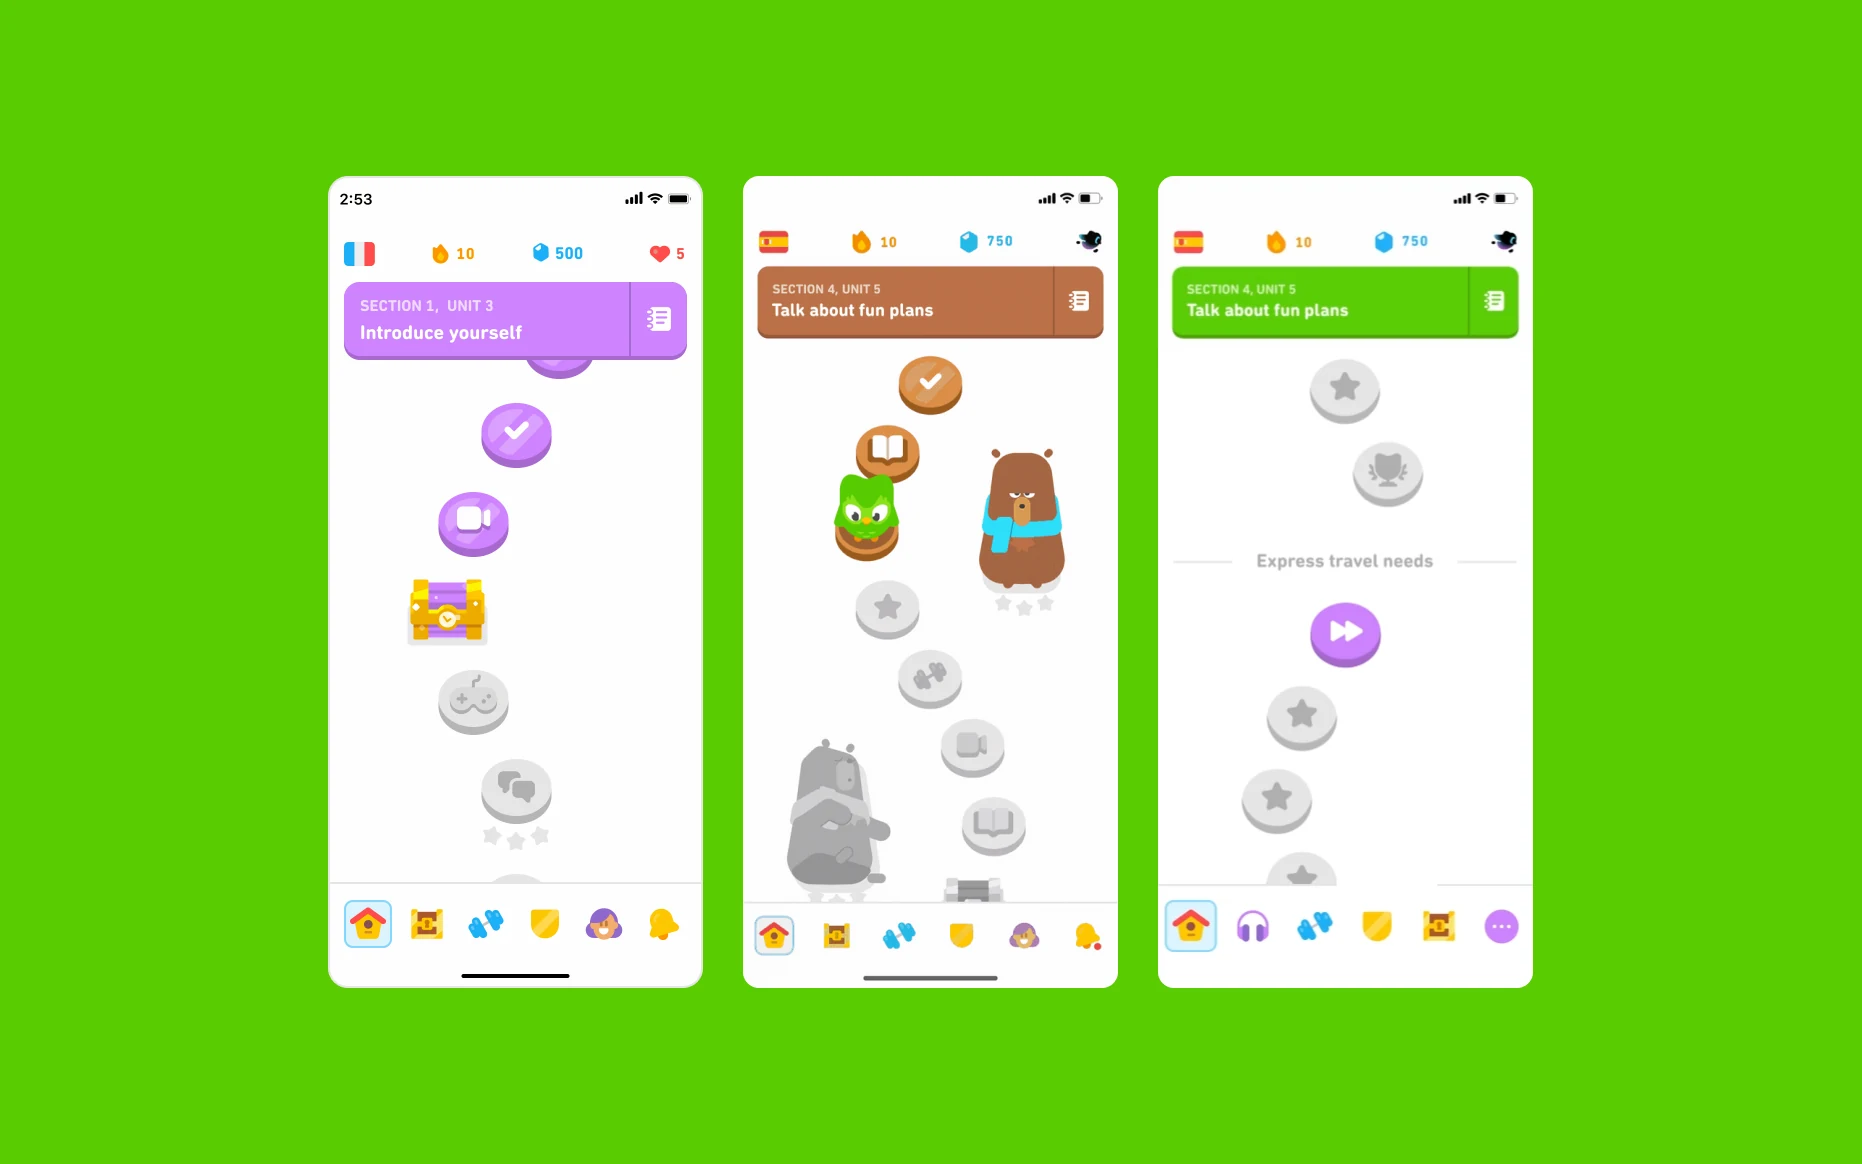
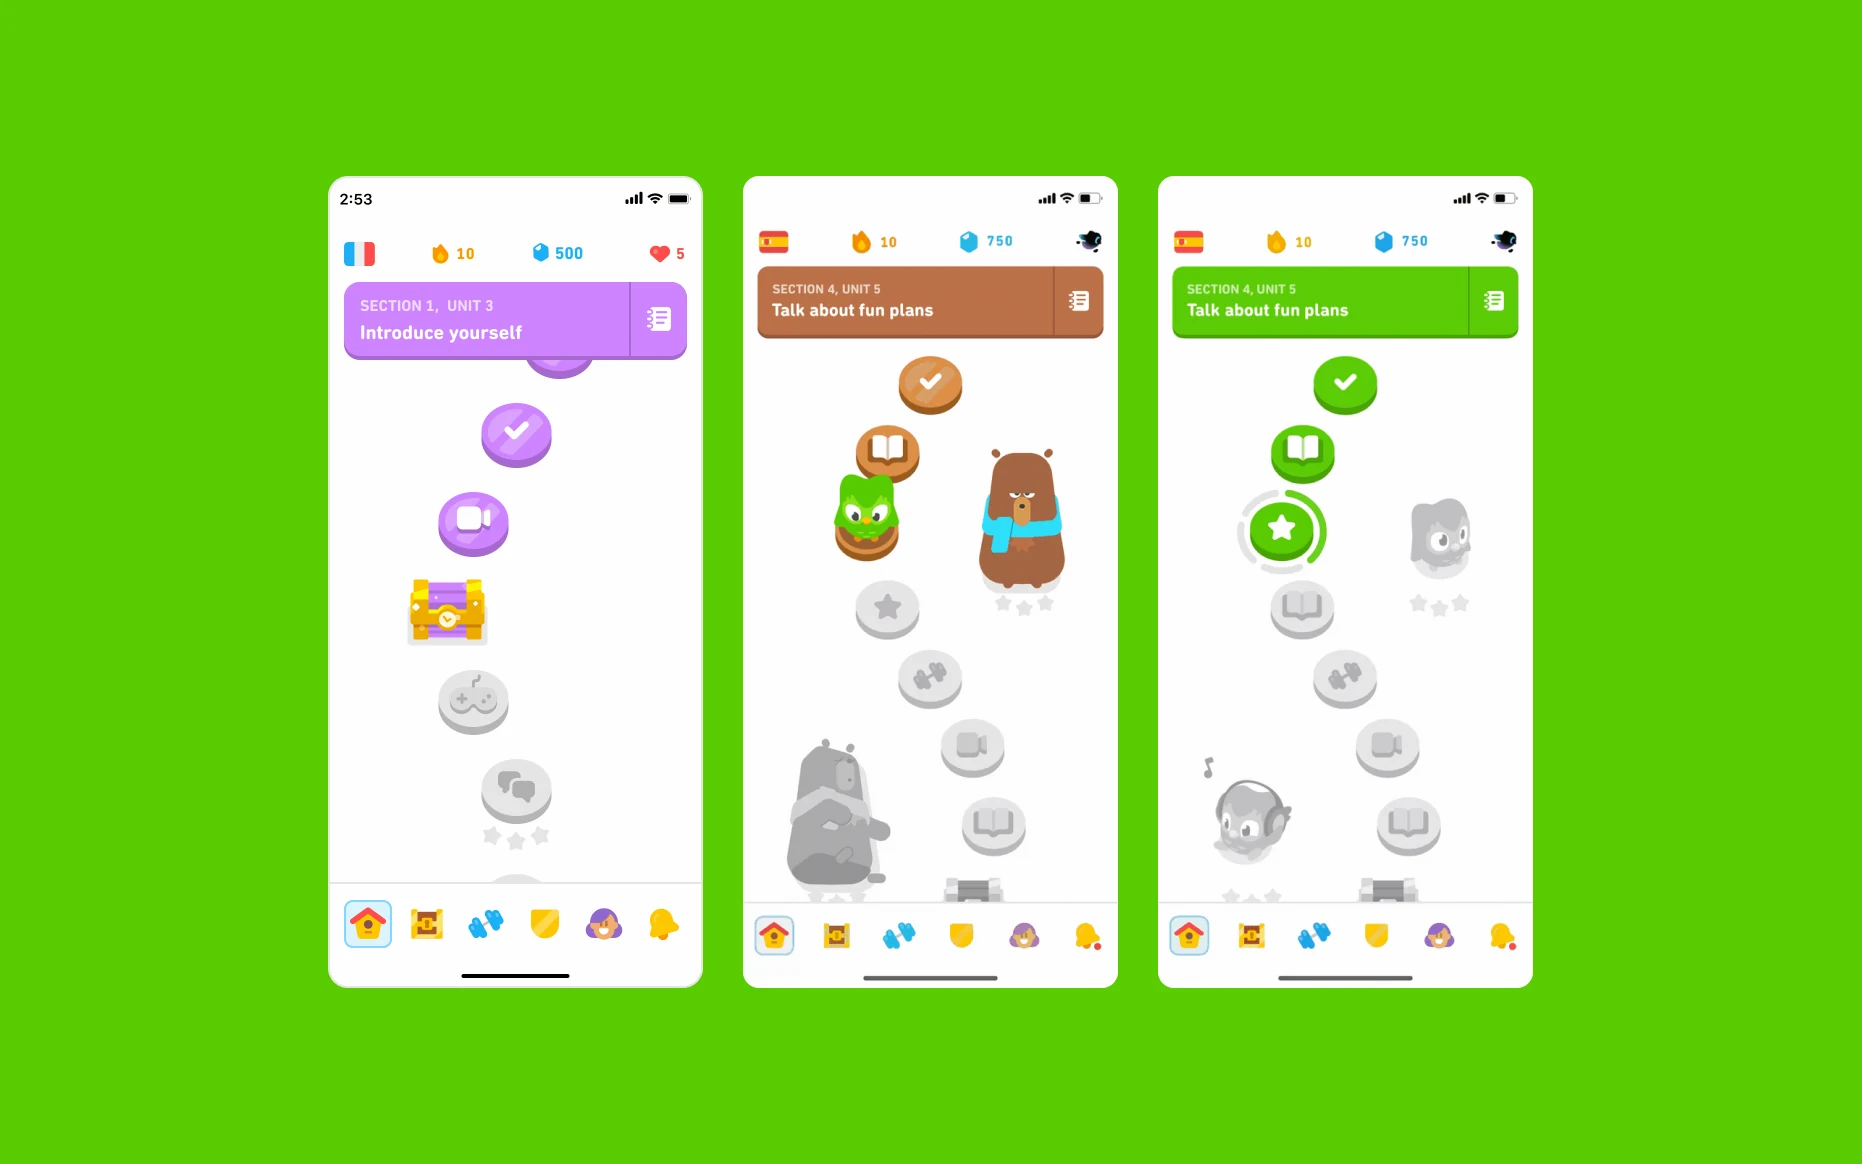
Update Delight on the path thumbnail
Claude-Session: https://claude.ai/code/session_01L6Cc1x5TrNVTPiYhATRg52

Changed region(s): [[0.623, 0.3093, 0.841, 0.866], [0.6541, 0.2474, 0.7164, 0.2784]]

diff --git a/index.html b/index.html
@@ -605,7 +605,7 @@
         data-line="Making progress on the path feel more rewarding"
         data-stats='[{"v":150,"pre":"+","suf":"K","label":"time spent learning"},{"v":0.75,"dec":2,"pre":"+","suf":"%","label":"new user retention"}]'>
         <button type="button" class="shot-btn">
-          <img class="media" src="images/delight-on-path.webp" width="1862" height="1164" alt="Delight on Duolingo's path: a treasure chest node, Duo and a bear character on the path, and an XP boost node" loading="lazy" decoding="async">
+          <img class="media" src="images/delight-on-path.webp" width="1862" height="1164" alt="Delight on Duolingo's path: a treasure chest node, Duo and a bear character on the path, and a lesson completing with a progress ring" loading="lazy" decoding="async">
           <span class="pill"><b>Delight on the path</b> <span>· Duolingo</span></span>
         </button>
       </figure>
